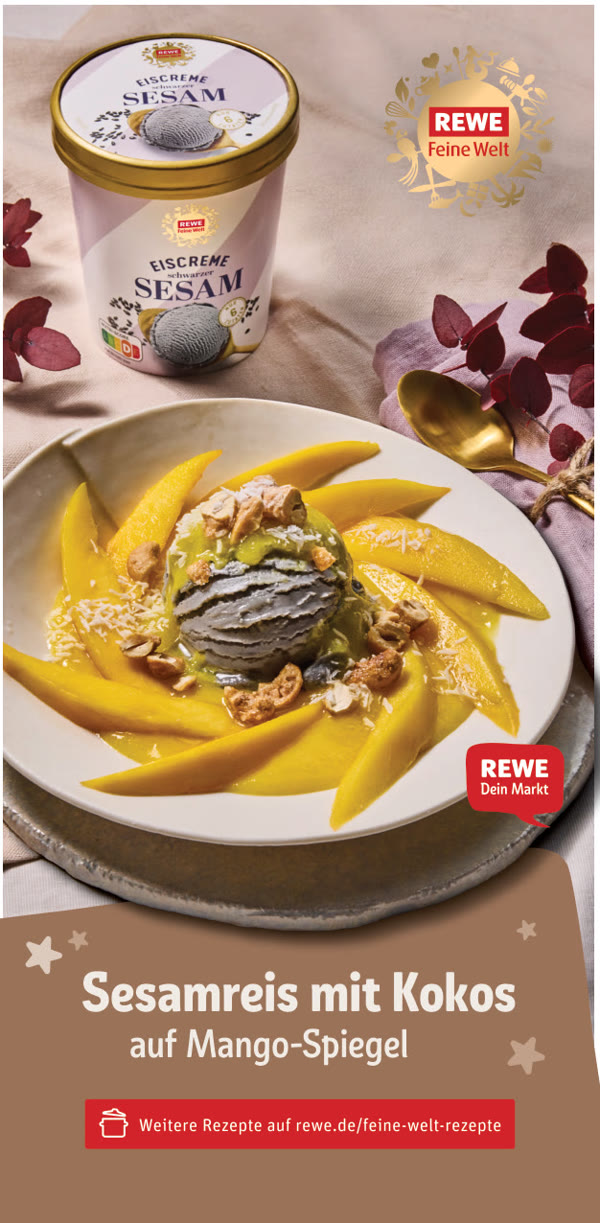
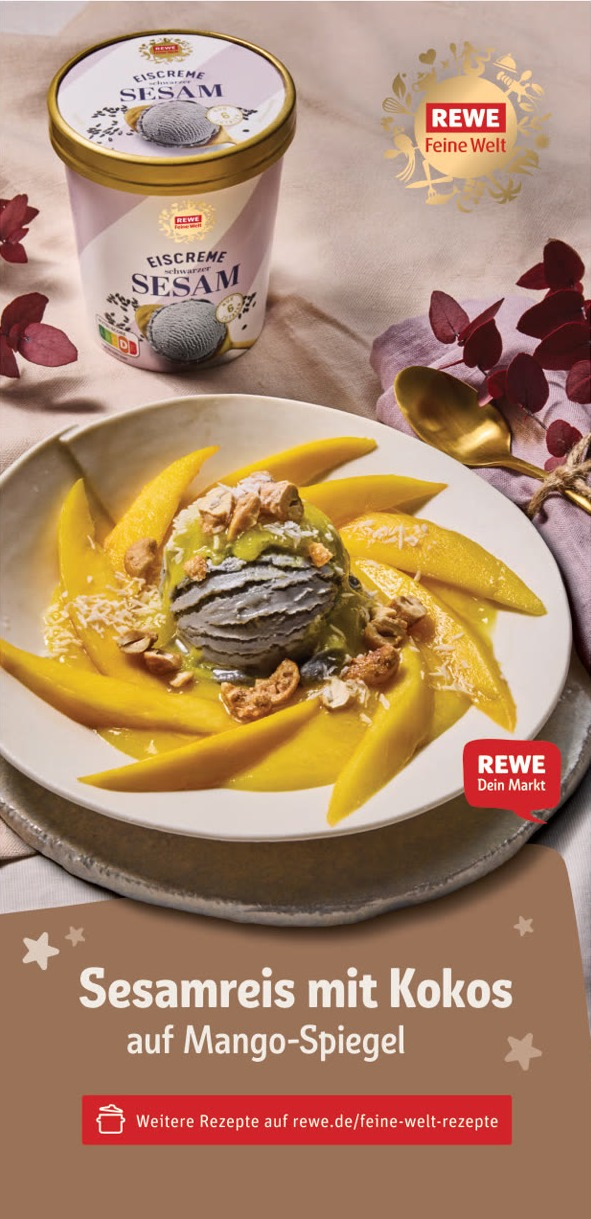
REWE: Zuschnittmarken am Xmas-POS-Bild entfernen

diff --git a/lib/projects.ts b/lib/projects.ts
@@ -205,7 +205,7 @@ export const projects: Project[] = [
       { slotId: "detail-6", ratio: "1200/675", span2: true, src: "/projects/rewe-art-direction/weisser-bohnensalat.jpg", caption: "Rezeptkommunikation: Weißer Bohnensalat", placeholder: "Foto hier ablegen" },
       { slotId: "detail-7b", ratio: "800/1200", src: "/projects/rewe-art-direction/wassermelonen-eistee.jpg", caption: "Rezeptkommunikation: Wassermelonen-Limetten-Eistee", placeholder: "Foto (Hochformat) hier ablegen" },
       { slotId: "detail-8", ratio: "4/5", caption: "Rezeptkommunikation: Bratlinge mit Pastinaken-Möhren-Gemüse", placeholder: "Foto (Hochformat) hier ablegen" },
-      { slotId: "detail-4", ratio: "600/1223", src: "/projects/rewe-art-direction/sesameis.jpg", caption: "Xmas-POS für REWE Feine Welt: Sesamreis mit Kokos auf Mango-Spiegel", placeholder: "Foto (Hochformat) hier ablegen" },
+      { slotId: "detail-4", ratio: "591/1219", src: "/projects/rewe-art-direction/sesameis.jpg", caption: "Xmas-POS für REWE Feine Welt: Sesamreis mit Kokos auf Mango-Spiegel", placeholder: "Foto (Hochformat) hier ablegen" },
       { slotId: "detail-4b", ratio: "600/1223", src: "/projects/rewe-art-direction/sesameis-rezept.jpg", caption: "Rückseite mit Zutaten und Zubereitung", placeholder: "Foto (Hochformat) hier ablegen" },
       { slotId: "detail-4c", ratio: "1/1", src: "/projects/rewe-art-direction/neukundenrabatt.jpg", video: "/projects/rewe-art-direction/neukundenrabatt.mp4", caption: "Social-Ad (Video): 20 € Neukundengutschein für den REWE Lieferservice", placeholder: "Video hier ablegen" },
       { slotId: "detail-5", ratio: "1/1", src: "/projects/rewe-art-direction/mitarbeitendenrabatt.jpg", caption: "Recruiting-Sujet: Mitarbeitendenrabatt", placeholder: "Foto (Hochformat) hier ablegen" },
